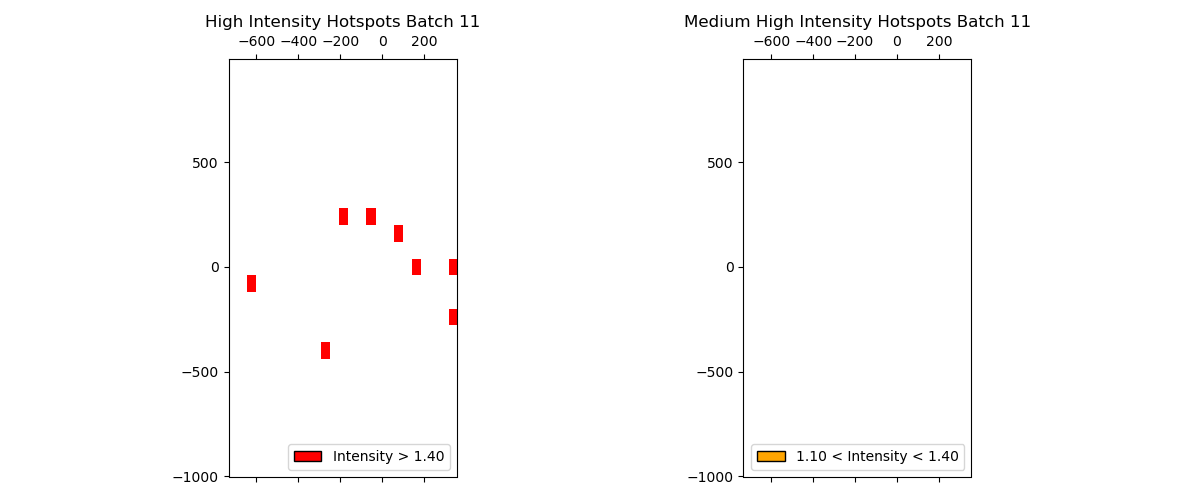
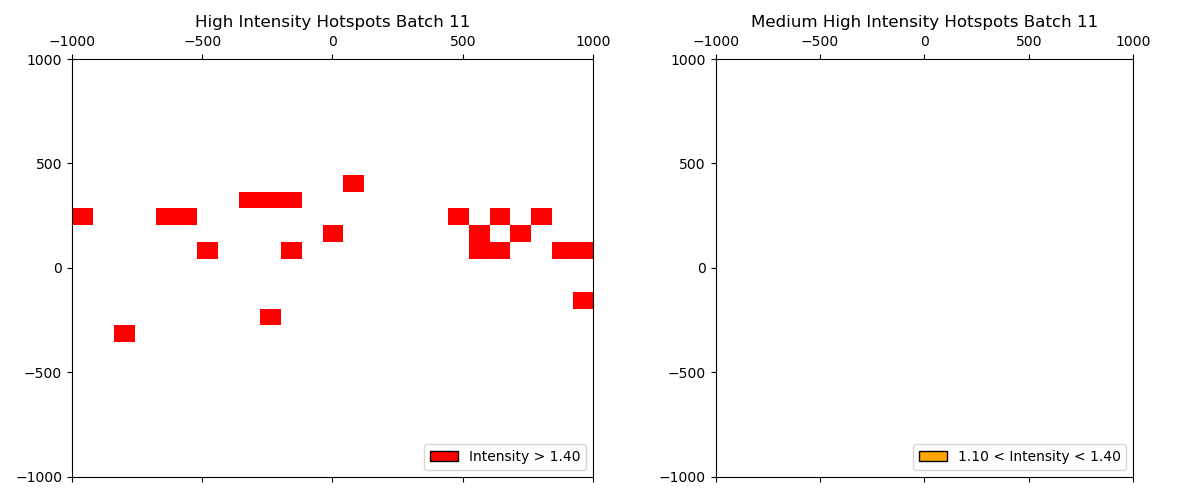
yes

diff --git a/testing.py b/testing.py
@@ -147,25 +147,22 @@ def displayIntensityMethod2(intensity_data_frame, batch_num):
 #_________Finding Hotspots and Displaying Them (With Thresholds)_________
 def plot_intensity(final_intensity_data, batch, grid_size=25):
     data = final_intensity_data.to_numpy()
-    #Define the range values for the bins
-    max_x = max(data[:, 1])
-    min_x = min(data[:, 1])
-    max_y = max(data[:, 0])
-    min_y = min(data[:, 0])
-    range_values = [[min_x, max_x], [min_y, max_y]]
+
+    # Set the desired range for x and y axes
+    range_values = [[-1000, 1000], [-1000, 1000]]
 
     # Calculate the histogram
     hist, xedges, yedges = np.histogram2d(data[:, 1], data[:, 0], bins=grid_size, range=range_values)
 
     # Calculate threshold
     cou = []
-    for x in range (0, grid_size):
-        for y in range (0, grid_size):
+    for x in range(0, grid_size):
+        for y in range(0, grid_size):
             c = hist[x][y]
             cou.append(c)
     maximum = (max(cou))
-    d1 = maximum *.70
-    d2 = maximum * .55
+    d1 = maximum * 0.70
+    d2 = maximum * 0.55
 
     # Create masks based on the adjusted thresholds
     high_intensity_mask = np.where(hist >= d1, 1, 0)
@@ -176,17 +173,20 @@ def plot_intensity(final_intensity_data, batch, grid_size=25):
 
     # Plot high-intensity spots
     cmap = ListedColormap(['white', 'red'])
-    im1 = axes[0].matshow(high_intensity_mask, extent=np.ravel([min_x, max_x, min_y, max_y]), cmap=cmap)
+    im1 = axes[0].matshow(high_intensity_mask, extent=np.ravel([-1000, 1000, -1000, 1000]), cmap=cmap, aspect='auto')
     legend_elements1 = [Patch(facecolor='red', edgecolor='black', label=f'Intensity > {d1:2.2f}')]
     axes[0].legend(handles=legend_elements1, loc='lower right')
     axes[0].set_title(f"High Intensity Hotspots Batch {batch}")
 
     # Plot medium-high intensity spots
     cmap = ListedColormap(['white', 'orange'])
-    im2 = axes[1].matshow(medium_high_intensity_mask, extent=np.ravel([min_x, max_x, min_y, max_y]), cmap=cmap)
+    im2 = axes[1].matshow(medium_high_intensity_mask, extent=np.ravel([-1000, 1000, -1000, 1000]), cmap=cmap, aspect='auto')
     legend_elements2 = [Patch(facecolor='orange', edgecolor='black', label=f'{d2:2.2f} < Intensity < {d1:2.2f}')]
     axes[1].legend(handles=legend_elements2, loc='lower right')
     axes[1].set_title(f"Medium High Intensity Hotspots Batch {batch}")
+
+    # Set aspect ratio to be equal for the entire figure
+    plt.gca().set_aspect('equal', adjustable='box')
 
     plt.tight_layout()
     plt.savefig(f'Intensity Plot Batch {batch}')
@@ -348,7 +348,7 @@ for i in range(1, 12, 1):
 
 k = 1
 
-while k < 12:
+while k <= 11:
     function_name = f"final_intensity_list_batch_{k}_method_1"
     plot_intensity(globals()[function_name], k, grid_size=25)
     k += 1
